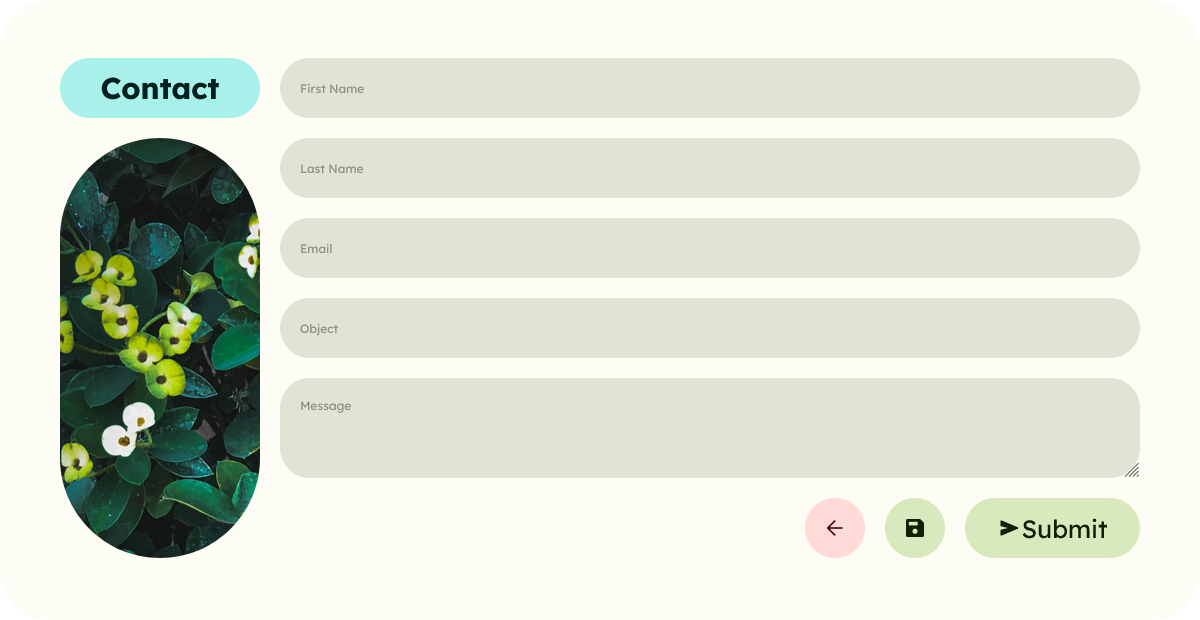
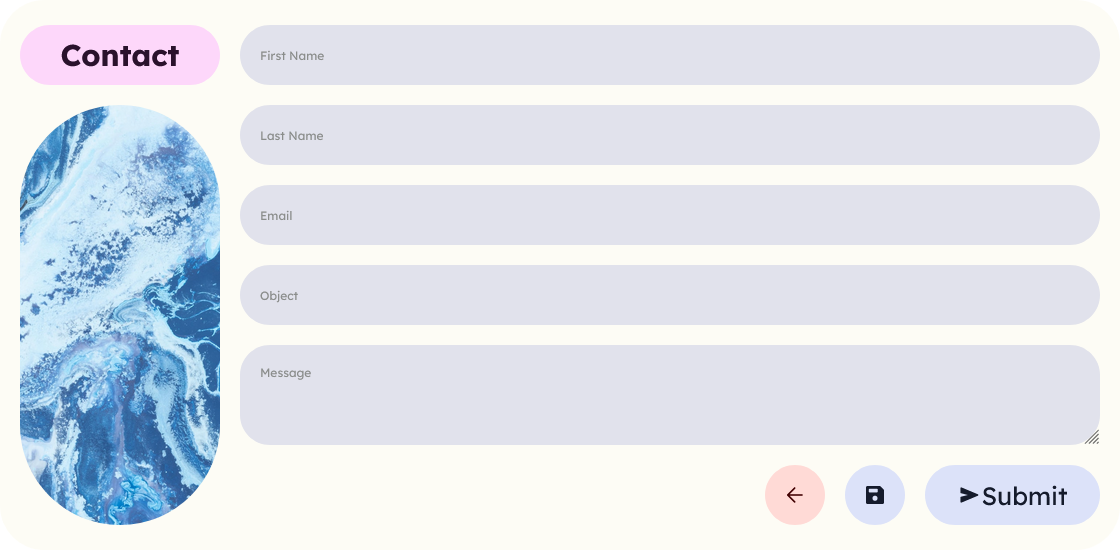
Updated README.md

diff --git a/README.md b/README.md
@@ -8,7 +8,7 @@
   <img src="https://ziadoua.github.io/m3-Markdown-Badges/badges/IDEA/idea2.svg">
 </p>
 
-<img align="left" height="75px" src="https://pictshare.net/uihl6g.png">
+<img align="left" height="75px" src="https://i.postimg.cc/cCDLRpvS/m3contact.png">
 📧 A Material You inspired contact form (front-end only).
 <br>
 ✨ Subtle animations.
@@ -23,7 +23,7 @@
 
 This is a contact form designed to be both beautiful and functional. This is only the front-end, but I made it as simple as possible integrating logic and back-end.
 
-<a href="https://ziadoua.github.io/m3-Contact-Form/" target="_blank" rel="noopener noreferrer"> <img src="https://imgur.com/Wk0lfTg.png" width="250px"/> </a>
+<a href="https://ziadoua.github.io/m3-Contact-Form/" target="_blank" rel="noopener noreferrer"> <img src="https://i.postimg.cc/C14fB6YG/button.png" width="250px"/> </a>
 
 Latest release [here](https://github.com/ziadOUA/m3-Contact-Form/releases/latest).
 
